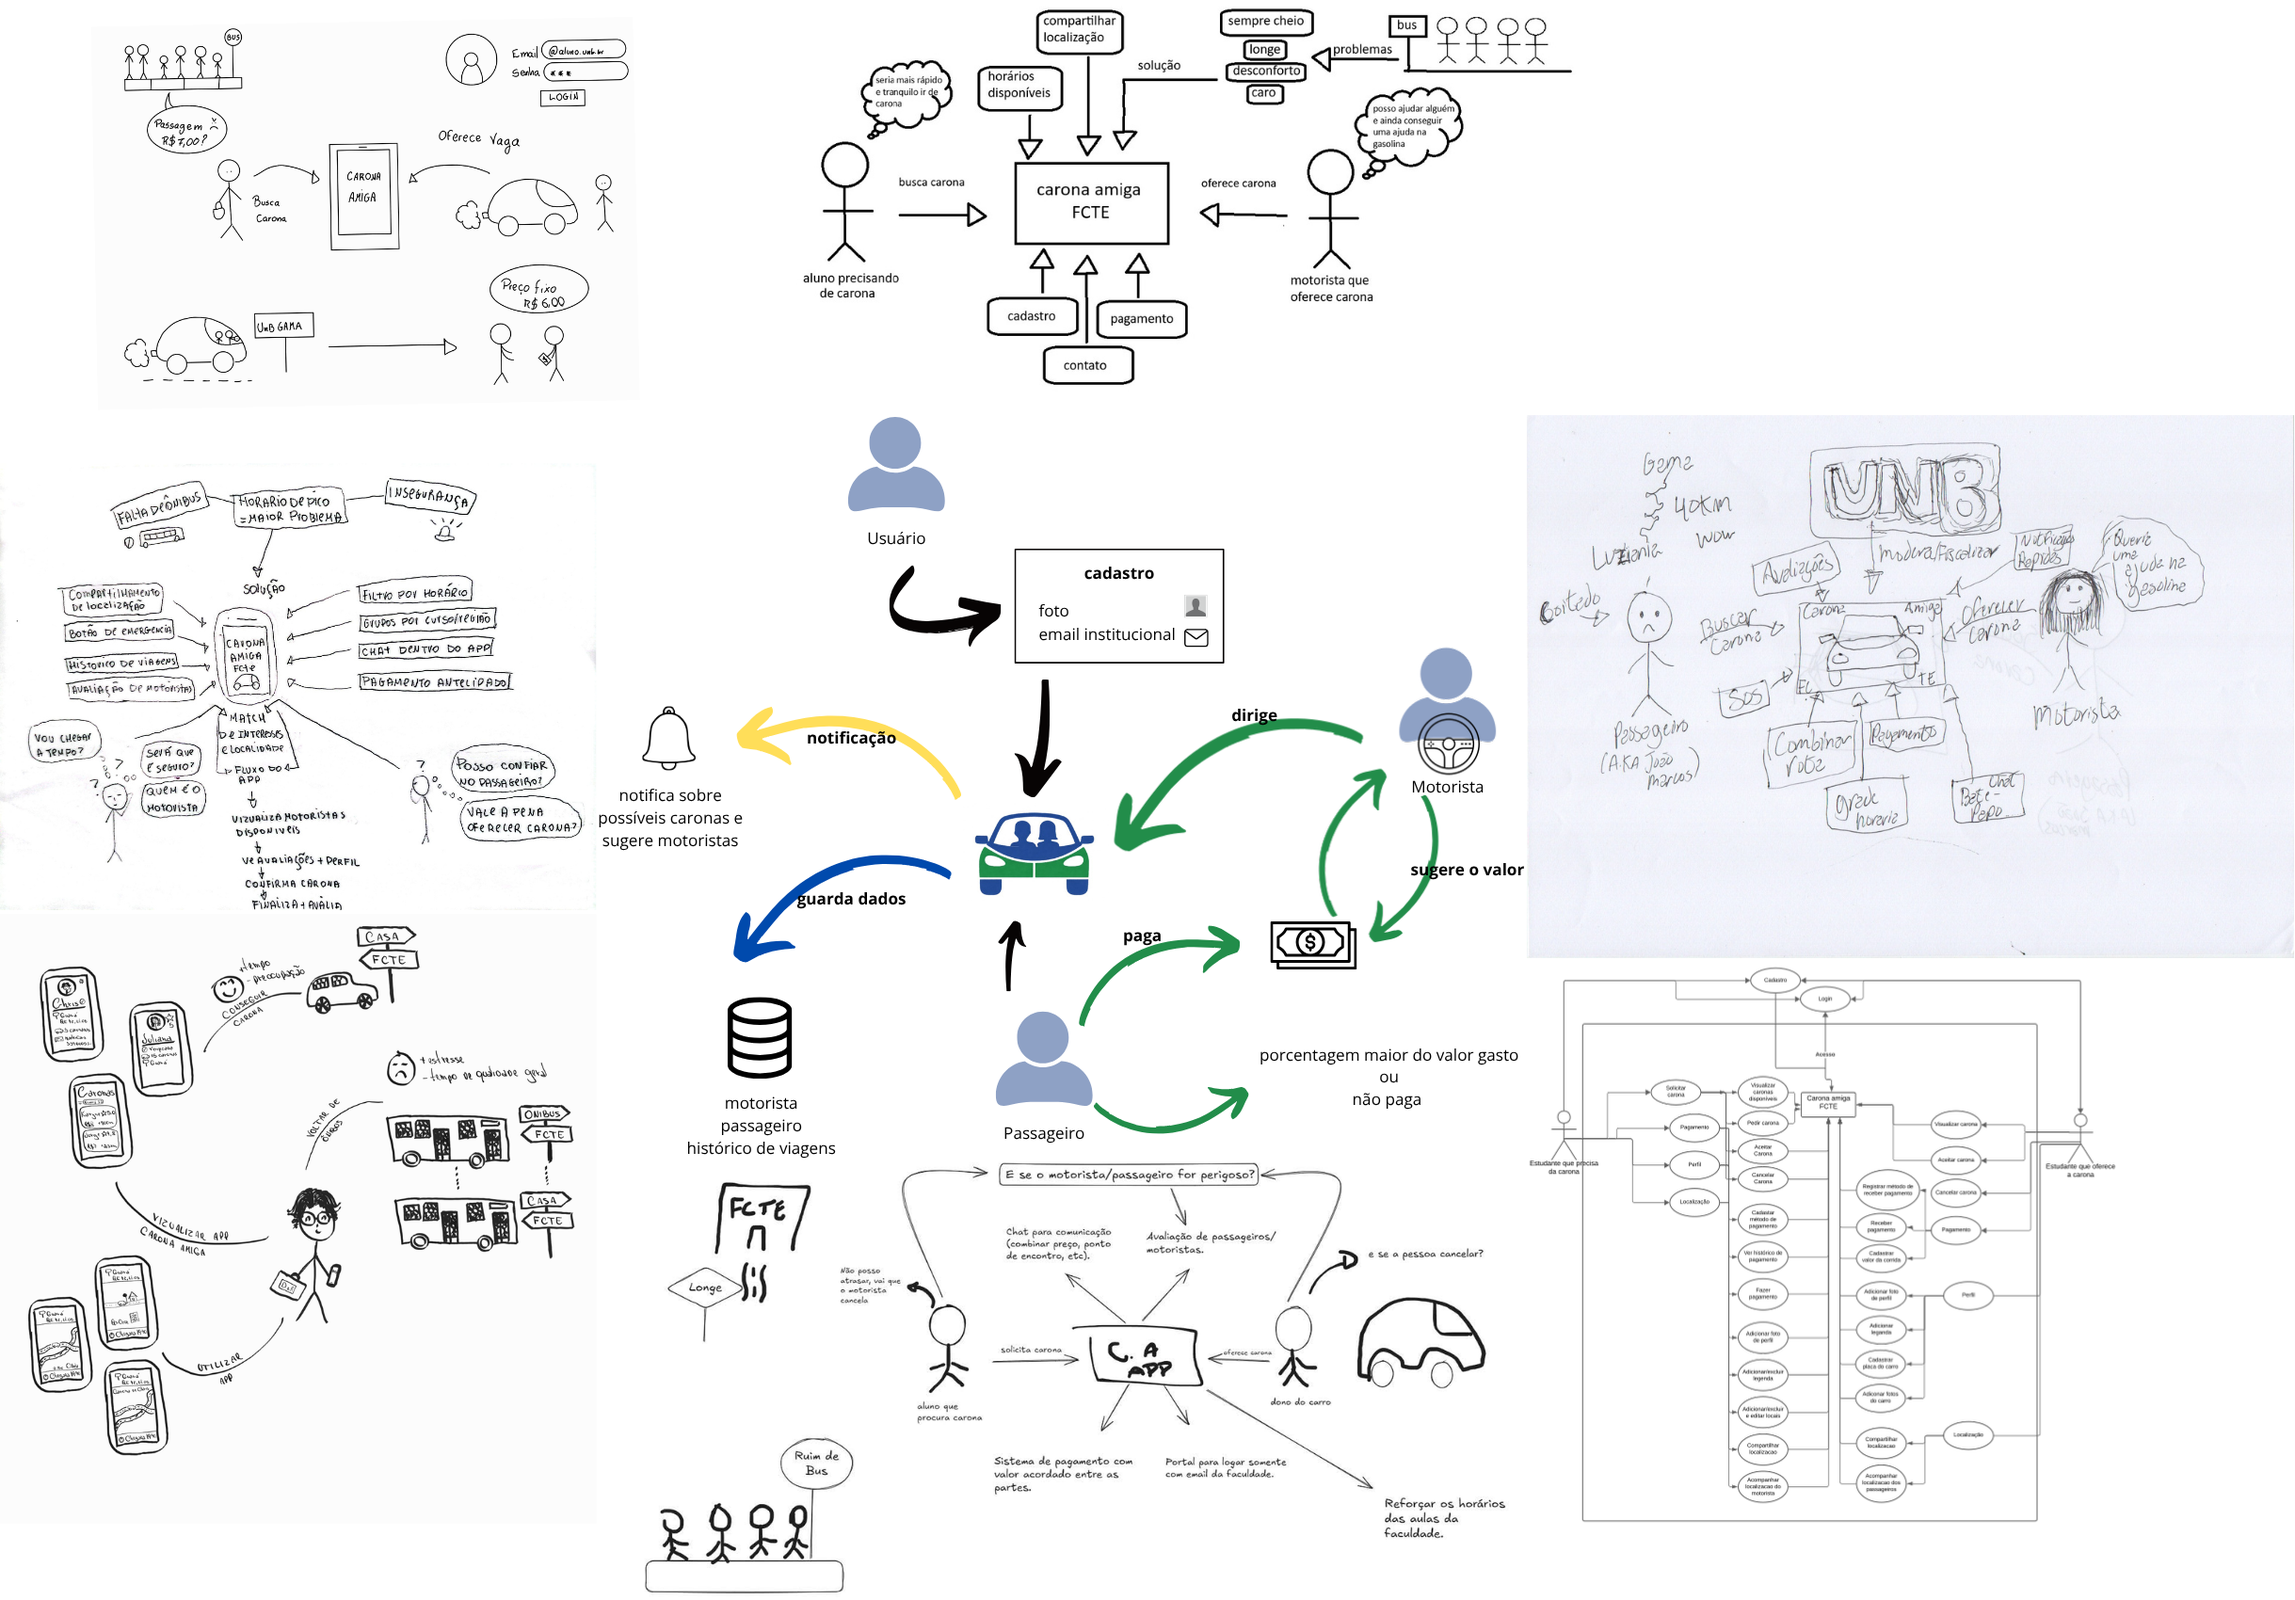
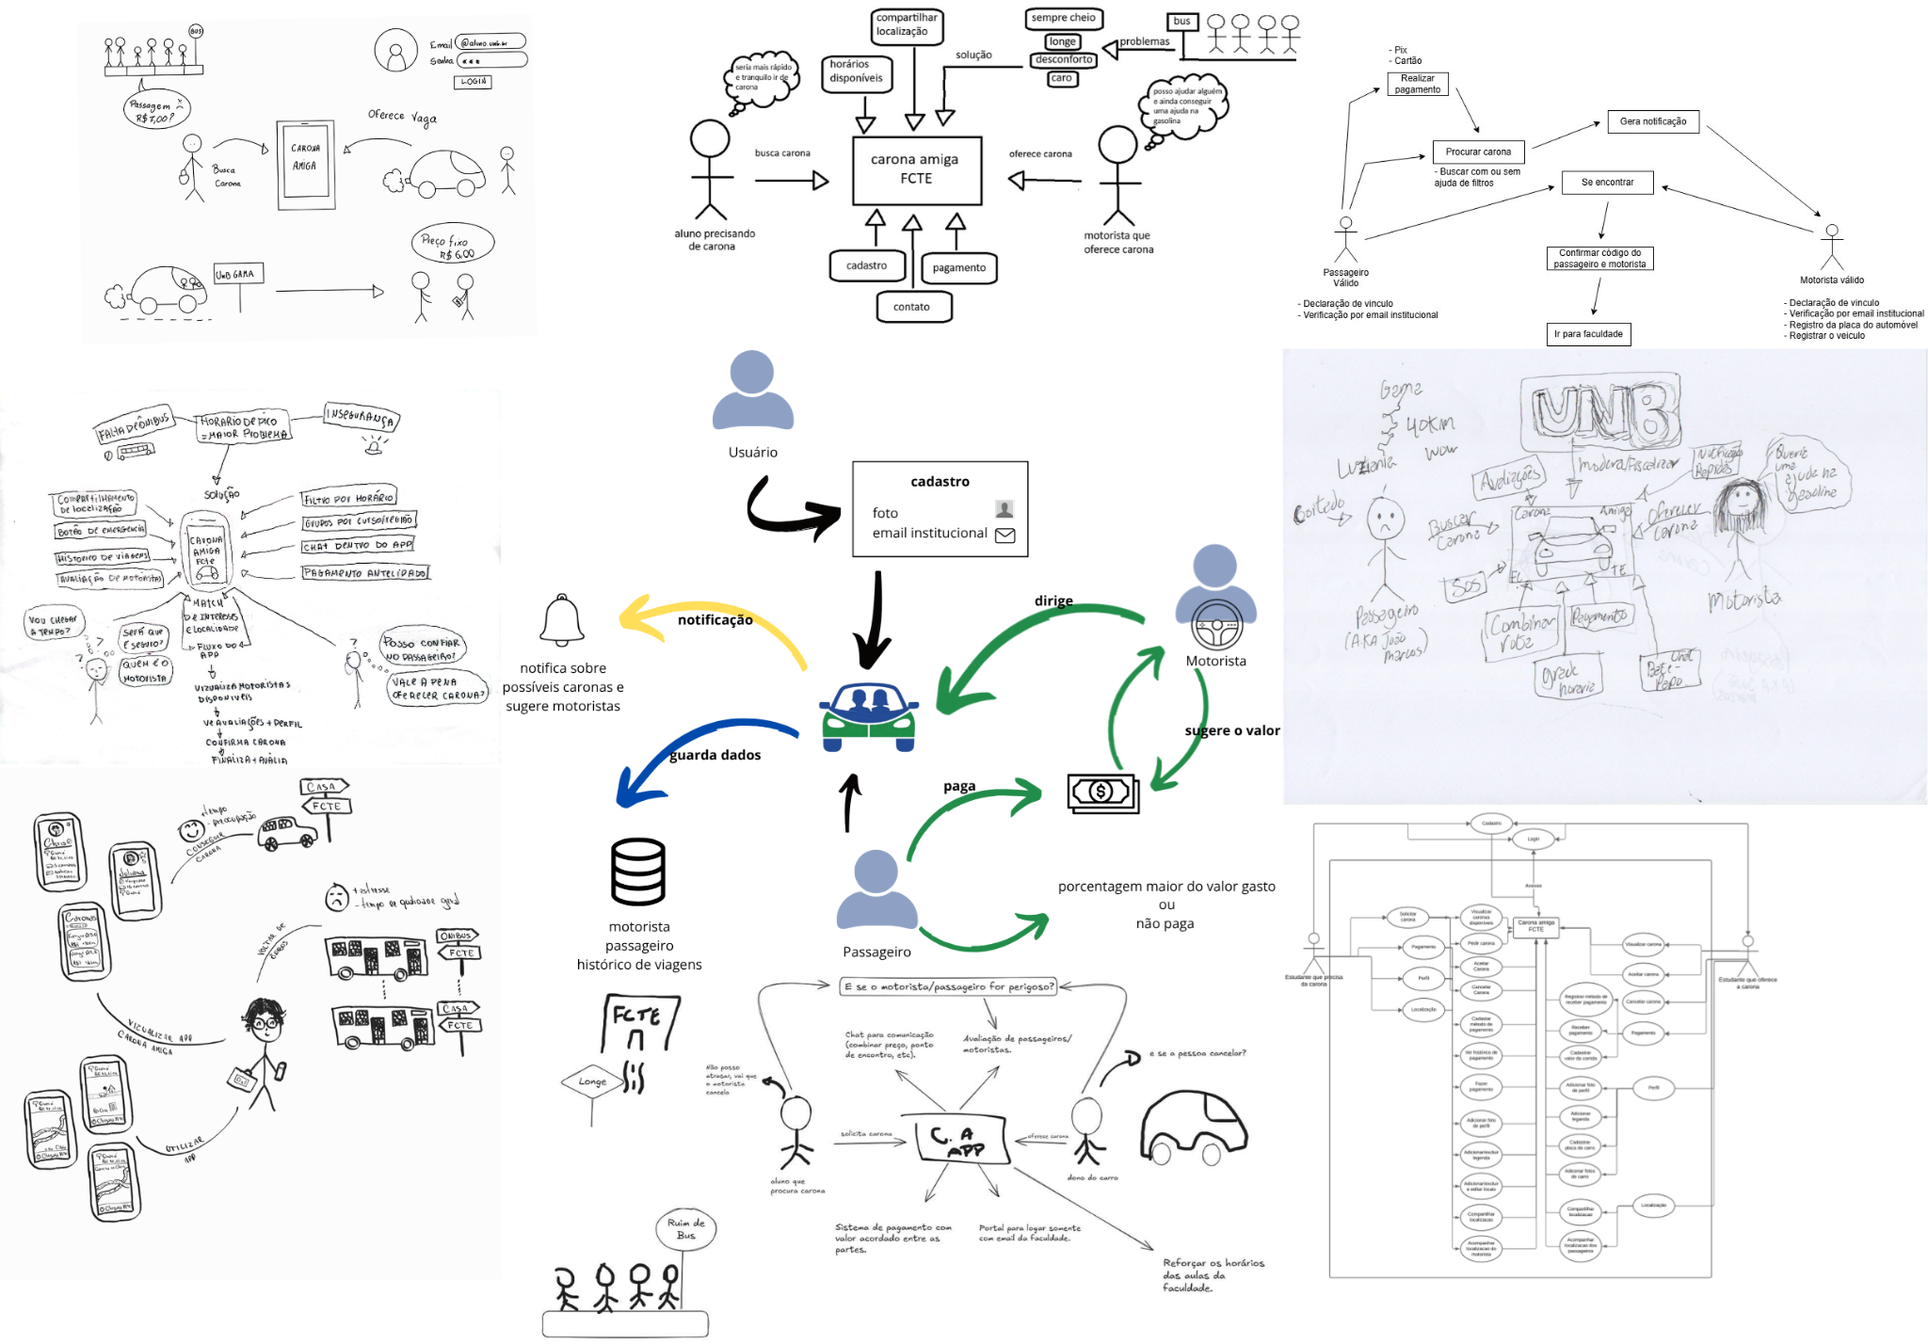
docs: adição do richpicture

diff --git a/docs/Base/2-Artefato-Generalista/1.3.RichPicture.md b/docs/Base/2-Artefato-Generalista/1.3.RichPicture.md
@@ -72,11 +72,11 @@ O Rich Picture individual do aluno [João Marcos Moraes de Andrade](https://gith
 ## Rich Picture
 
  <div align="center">
-  <img src="" alt="Rich Picture" style="max-width:100%; height:auto;"/>
+  <img src="https://i.postimg.cc/DyCpCDYr/Rich-Picture.jpg" alt="Rich Picture" style="max-width:100%; height:auto;"/>
   <p>Figura 5: Rich Picture João Vitor Santos de Oliveira  </p>
 </div>
 
-O Rich Picture individual do aluno [João Vitor Santos de Oliveira (Líder)](https://github.com/Jauzimm) encontra-se nesse PDF: [PDF](https://drive.google.com/file/d/19jqe3fvui7IUe6jyyKdRTc-Km4CKu1tW/view?usp=sharing)
+O Rich Picture individual do aluno [João Vitor Santos de Oliveira](https://github.com/Jauzimm) encontra-se nesse PDF: [PDF](https://drive.google.com/file/d/14lqc1KNXy5Sffyflwb7_wT5ozH9XJYp4/view?usp=sharing)
 
 <font size="3"><p style="text-align: center"> Fonte: Elaborado pelo autor ([João Vitor Santos de Oliveira (Líder)](https://github.com/Jauzimm) , 2026)</p></font>
 
@@ -164,3 +164,4 @@ O Rich Picture individual do aluno [Nicolas Bomfim Dias Bandeira](https://github
 |  1.4   | 31/03/2026  | Inserção Rich Picture - Gustavo [#13](https://github.com/UnBArqDsw2026-1-Turma02/2026.1-T02-G7_CaronaAmigaFCTE_Entrega_01/issues/13)      | [Gustavo Ribeiro Linhares](https://github.com/GustavoLinharess)         | [João Marcos Moraes de Andrade](https://github.com/JJOAOMARCOSS)  |         Artefato revisado.          |
 |  1.5   | 01/04/2026  | Inserção Rich Picture - Karoline Luz [#13](https://github.com/UnBArqDsw2026-1-Turma02/2026.1-T02-G7_CaronaAmigaFCTE_Entrega_01/issues/13) | [Karoline Luz](https://github.com/KarolineLuz)                          | [João Vitor Santos de Oliveira](https://github.com/Jauzimm)       |         Artefato revisado.          |
 |  1.6   | 02/04/2026  | Arrumando o link do Christopher [#13](https://github.com/UnBArqDsw2026-1-Turma02/2026.1-T02-G7_CaronaAmigaFCTE_Entrega_01/issues/13) | [João Marcos Moraes de Andrade](https://github.com/JJOAOMARCOSS)                          | [Karoline Luz](https://github.com/KarolineLuz)       |         Artefato revisado.          |
+|  1.7  | 04/04/2026  | Inserção Rich Picture - João Vitor [#13](https://github.com/UnBArqDsw2026-1-Turma02/2026.1-T02-G7_CaronaAmigaFCTE_Entrega_01/issues/13) | [João Vitor Santos de Oliveira](https://github.com/Jauzimm)                          | [Gabriel Henrique Rodrigues de Lima](https://github.com/gabrielhrlima)       |         Artefato revisado.          |
